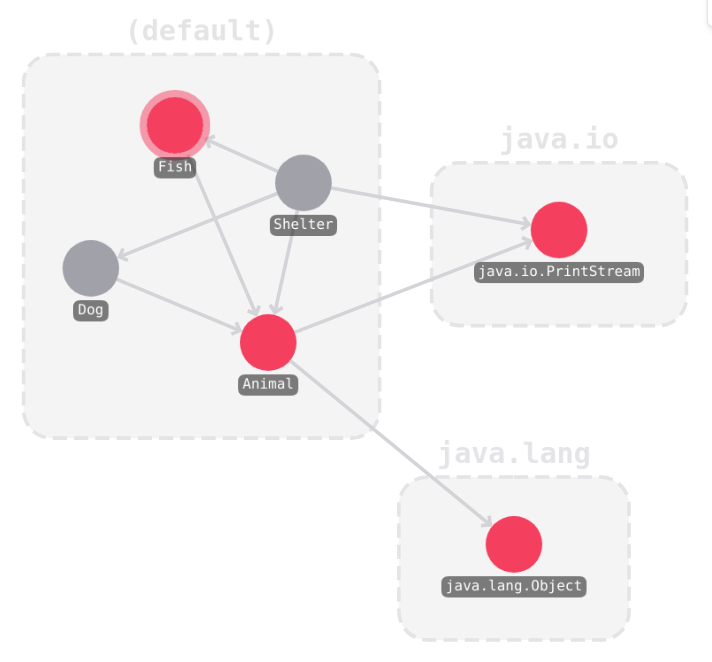
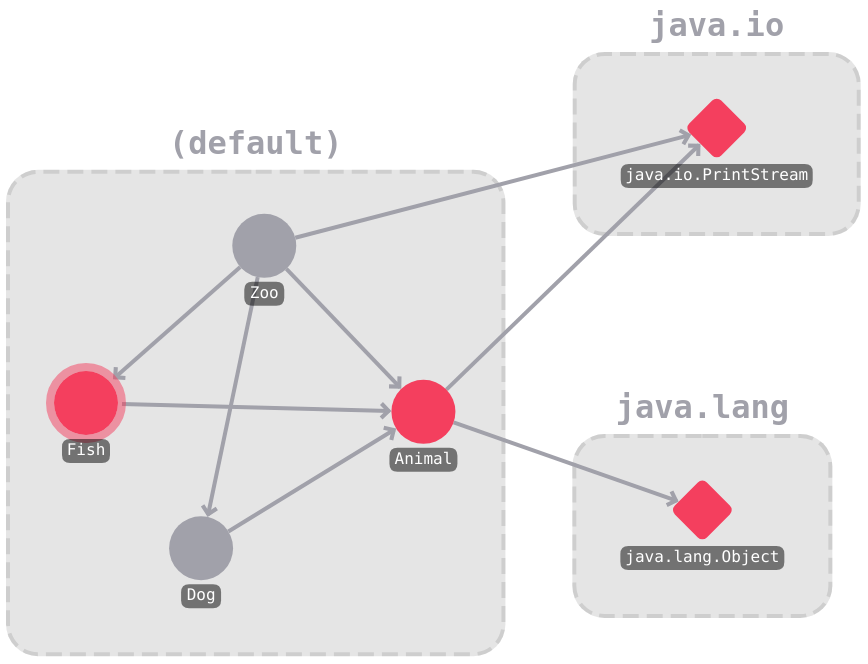
Added license and edited README.md

diff --git a/README.md b/README.md
@@ -6,16 +6,13 @@
 ## Table of Contents
 
 - [Features](#features)
-- [Installation](#installation)
-- [Usage](#usage)
-- [Contributing](#contributing)
 - [License](#license)
 
 ## Features
 
 ### Follow the flow of execution
 
-`cat-viz` highlights the flow of execution, allowing the user to get a good grasp of how the analyzed program is structured.
+`cat-viz` highlights the flow of execution, allowing the user to get a good grasp of how the analyzed program is structured. Round nodes represent methods in files which are included in the analysis, while rhombus-shaped nodes represent methods in files which are not included in the analysis.
 
 ![Dependencies](res/highlight.png)
 
@@ -37,56 +34,6 @@
 
 ![Dependencies](res/search.png)
 
-## Installation
-
-```sh
-# Clone the repo
-gh repo clone trettiofem/cat-viz
-cd cat-viz
-
-# Install dependencies
-npm install
-cd view
-npm install
-cd ..
-
-```
-
-## Usage
-
-```sh
-# Follow the steps below if you are interested in the web view component.
-# Navigate into the web view component
-cd view
-
-# Start local development server
-npx vite
-
-# Build web view
-npx vite build
-
-# Run build server
-npx vite build --watch
-
-# Follow the steps below if you are interested in the vscode extension.
-# Open project in vscode
-code .
-
-# Press F5 to debug the extension
-
-# Build extension
-# vet ej?
-```
-
-## Contributing
-
-We welcome contributions to cat-viz! If you would like to contribute, please follow these steps:
-
-1. Fork the repository.
-2. Create a new branch for your feature/fix: git checkout -b feature/your-feature.
-3. Commit your changes and push to your forked repository.
-4. Create a pull request detailing your changes.
-
 ## License
 
-CAT is released under the BSD 3-Clause License.
+`cat-viz` is released under the BSD 3-Clause License.

diff --git a/view/README.md b/view/README.md
@@ -1,50 +1,1 @@
-# React + TypeScript + Vite
-
-This template provides a minimal setup to get React working in Vite with HMR and some ESLint rules.
-
-Currently, two official plugins are available:
-
--   [@vitejs/plugin-react](https://github.com/vitejs/vite-plugin-react/blob/main/packages/plugin-react/README.md) uses [Babel](https://babeljs.io/) for Fast Refresh
--   [@vitejs/plugin-react-swc](https://github.com/vitejs/vite-plugin-react-swc) uses [SWC](https://swc.rs/) for Fast Refresh
-
-## Expanding the ESLint configuration
-
-If you are developing a production application, we recommend updating the configuration to enable type aware lint rules:
-
--   Configure the top-level `parserOptions` property like this:
-
-```js
-export default tseslint.config({
-    languageOptions: {
-        // other options...
-        parserOptions: {
-            project: ["./tsconfig.node.json", "./tsconfig.app.json"],
-            tsconfigRootDir: import.meta.dirname,
-        },
-    },
-});
-```
-
--   Replace `tseslint.configs.recommended` to `tseslint.configs.recommendedTypeChecked` or `tseslint.configs.strictTypeChecked`
--   Optionally add `...tseslint.configs.stylisticTypeChecked`
--   Install [eslint-plugin-react](https://github.com/jsx-eslint/eslint-plugin-react) and update the config:
-
-```js
-// eslint.config.js
-import react from "eslint-plugin-react";
-
-export default tseslint.config({
-    // Set the react version
-    settings: { react: { version: "18.3" } },
-    plugins: {
-        // Add the react plugin
-        react,
-    },
-    rules: {
-        // other rules...
-        // Enable its recommended rules
-        ...react.configs.recommended.rules,
-        ...react.configs["jsx-runtime"].rules,
-    },
-});
-```
+# view
